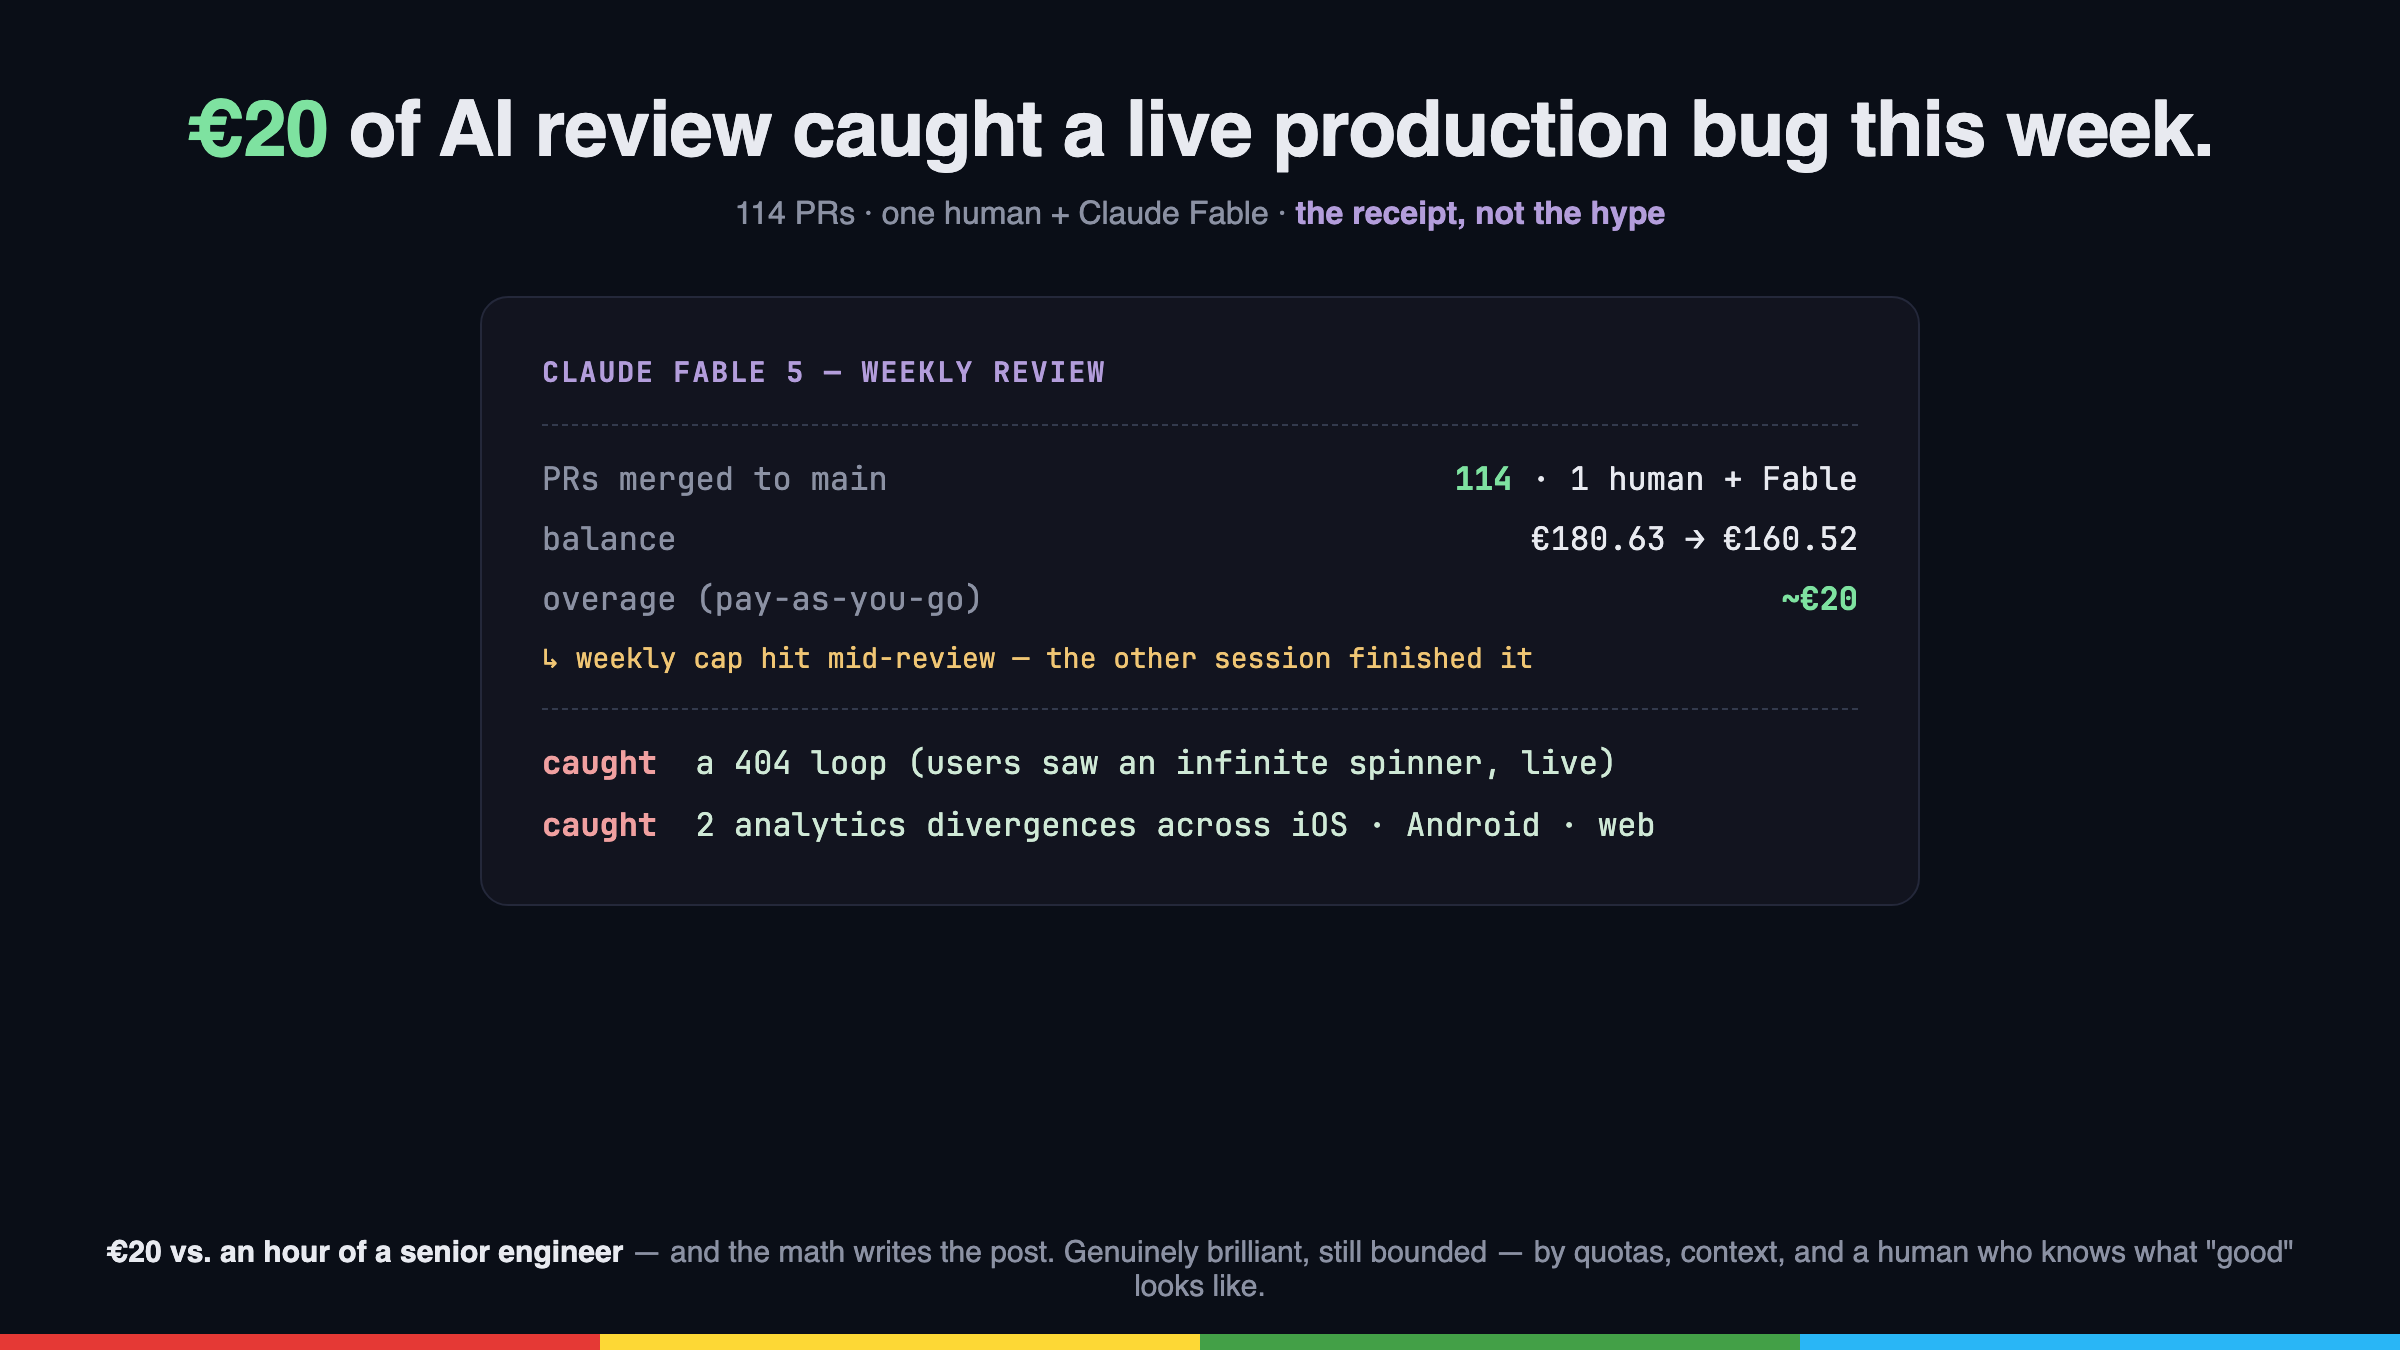
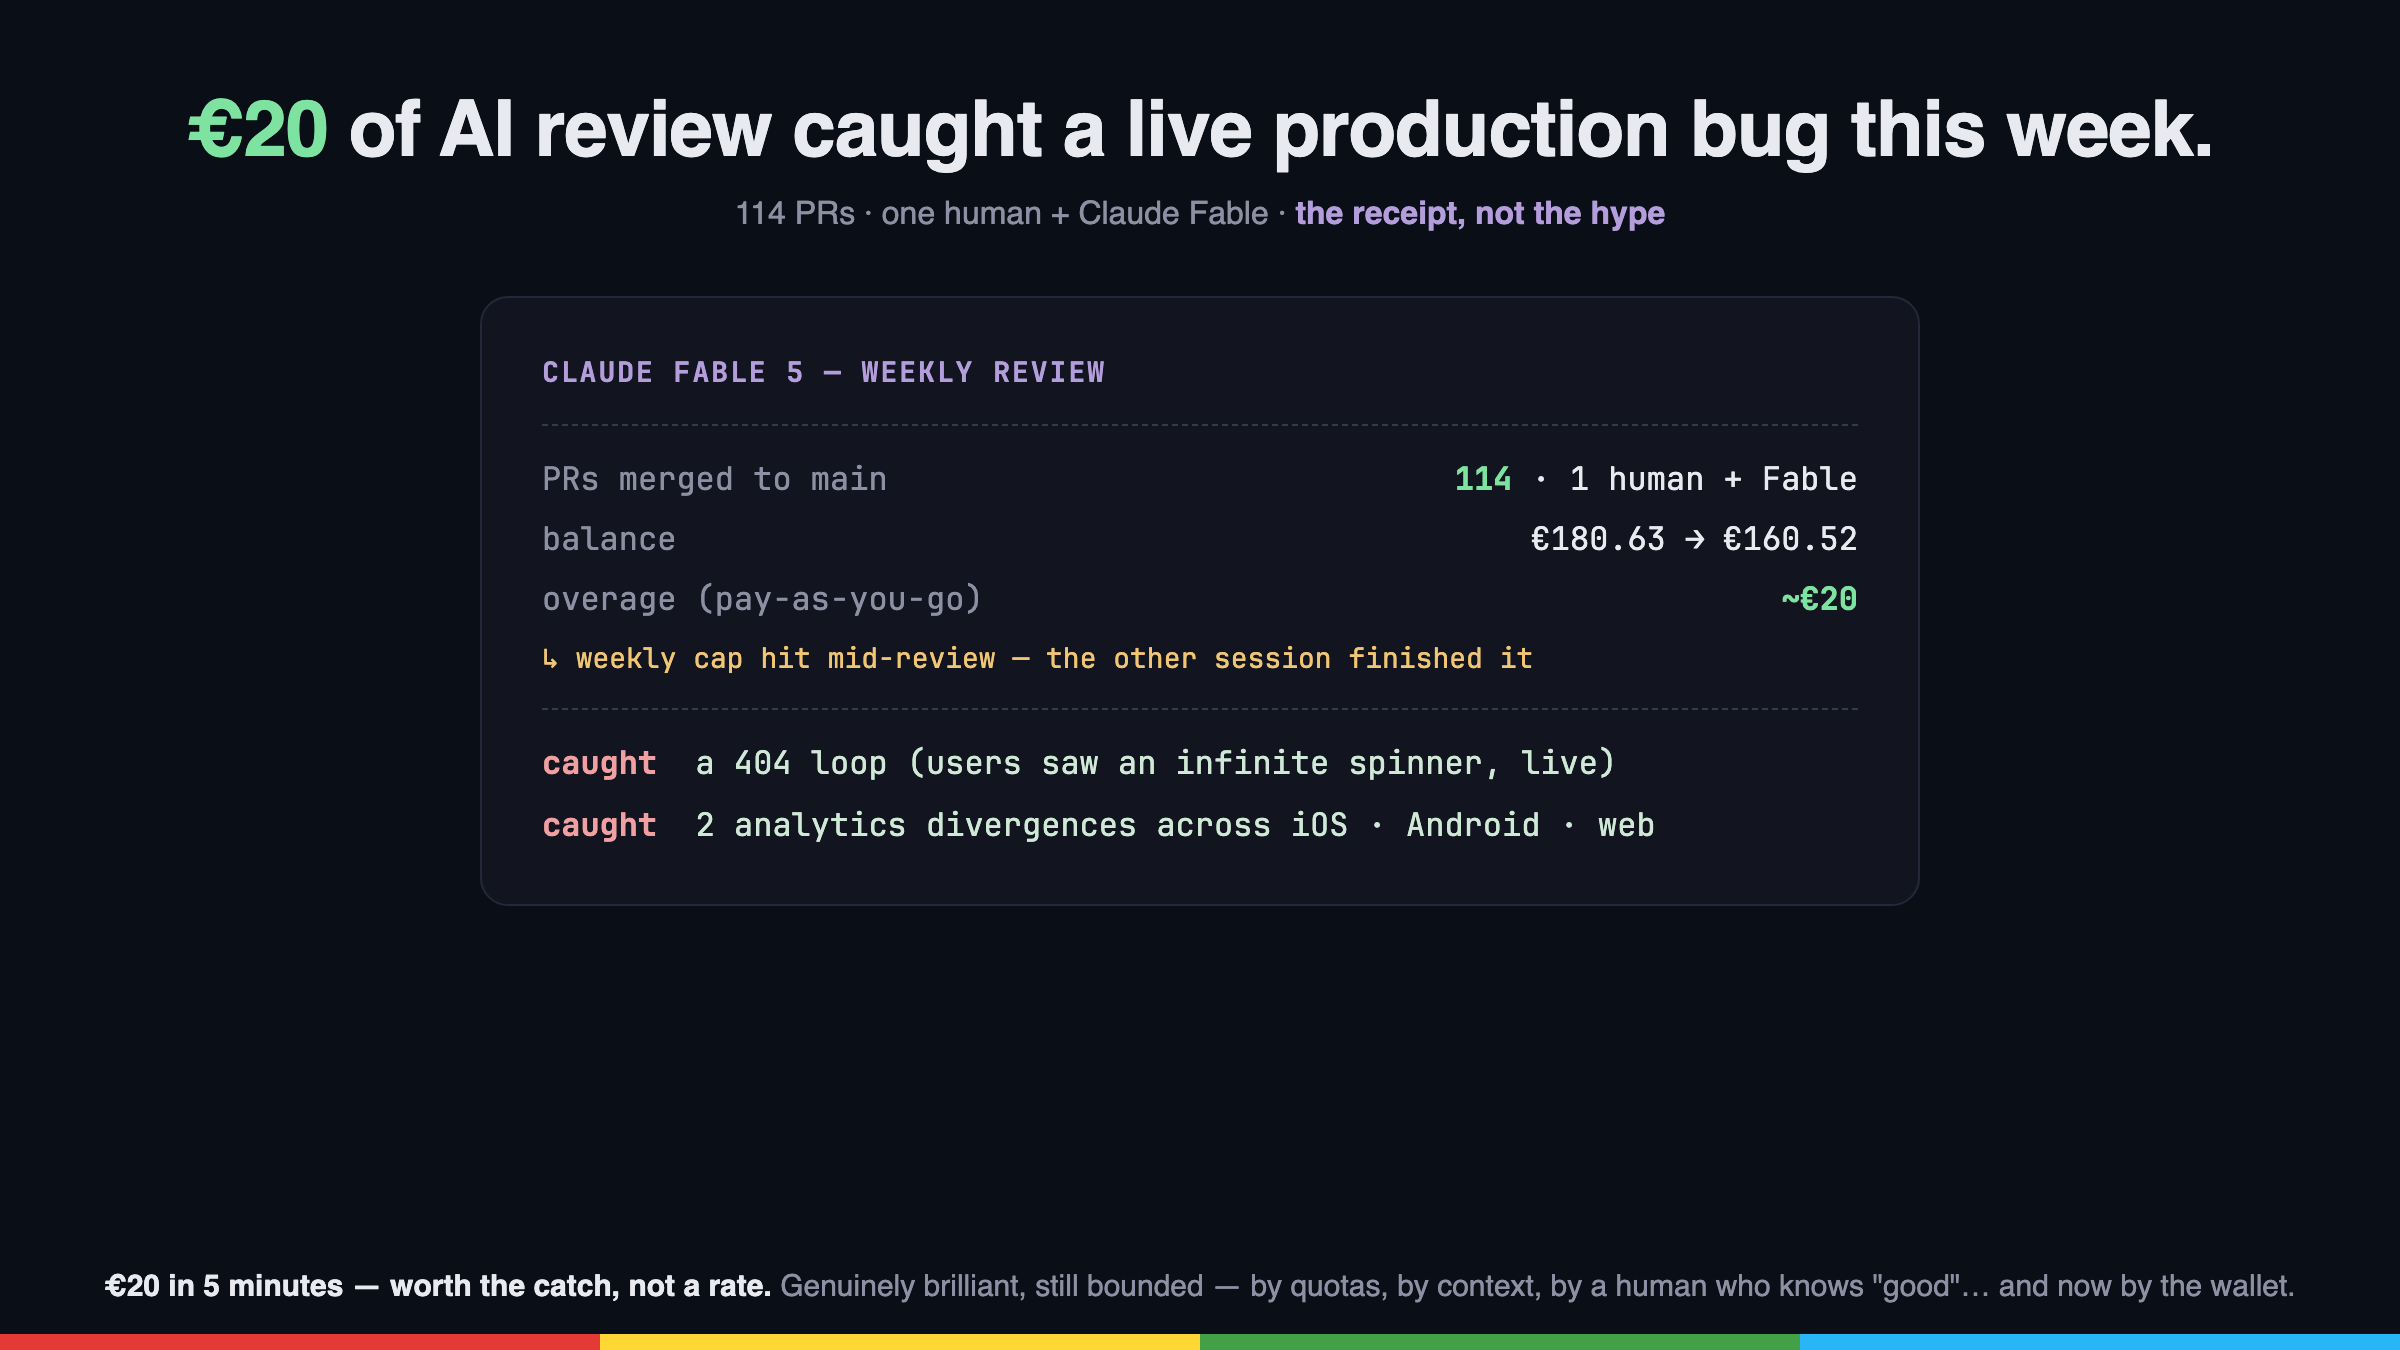
Fable post: cierre honesto — €20/5min es un no-go, vuelta a Opus 4.8 (+ Android)
Reenmarca el final (EN+ES): ese €20 valió por cazar el bug live, pero como tarifa
continua no escala → muevo el grueso a Opus 4.8 en plan plano, Fable para picos.
Cierre con gratitud + primer Android app. Quitada la contradicción "the math
writes the post". Hero re-renderizado con pie neutral.

Changed region(s): [[0.0312, 0.9022, 0.9688, 0.9644]]

diff --git a/wiki/assets/fable-receipt-hero.html b/wiki/assets/fable-receipt-hero.html
@@ -60,7 +60,7 @@
     </div>
   </div>
 
-  <div class="foot"><b>€20 vs. an hour of a senior engineer</b> — and the math writes the post. Genuinely brilliant, still bounded — by quotas, context, and a human who knows what "good" looks like.</div>
+  <div class="foot"><b>€20 in 5 minutes — worth the catch, not a rate.</b> Genuinely brilliant, still bounded — by quotas, by context, by a human who knows "good"… and now by the wallet.</div>
 
   <div class="spectrum">
     <span style="background:#e53935"></span>

diff --git a/wiki/post-side-fable.md b/wiki/post-side-fable.md
@@ -30,11 +30,15 @@ Every stumble became a codified trigger — in memory files, wikis, executable s
 
 **And the honest part** — because this series doesn't do hype: mid-review, one of the two sessions hit its usage ceiling. Frozen, mid-sentence, findings half-delivered. The other session picked up its unfinished review and completed the round. That's the actual state of the art in 2026: genuinely brilliant, and still bounded — by quotas, by context, and by needing a human who knows what "good" looks like. The locale bugs it introduced across three platforms? A human review caught those.
 
-**And the receipt — literally.** This series doesn't do hype, so here's the meter. The flat subscription (Max plan) covered the bulk of those 114 PRs. Mid-review, the weekly Fable allowance hit 100% and one session froze — frozen mid-sentence, findings half-delivered. The overage, billed pay-as-you-go, to finish the cross-platform review and apply the fixes across three codebases: **about €20** (balance €180.63 → €160.52). Twenty euros for a round that caught a real production bug — a 404 loop that would've shown users an infinite spinner — plus two analytics divergences across iOS, Android and web. That's the actual state of the art in 2026: genuinely brilliant, still bounded — by quotas, by context, by needing a human who knows what "good" looks like. The locale bugs it introduced across three platforms? A human review caught those. Now weigh €20 of overage against an hour of a senior engineer's time, and the math writes the post.
+**And the receipt — literally.** This series doesn't do hype, so here's the meter. The flat subscription (Max plan) covered the bulk of those 114 PRs. Mid-review, the weekly Fable allowance hit 100% and one session froze — mid-sentence, findings half-delivered. The overage to finish that cross-platform review and apply the fixes across three codebases, billed pay-as-you-go: **about €20** (balance €180.63 → €160.52). Twenty euros for a round that caught a real production bug — a 404 loop that would've shown users an infinite spinner — plus two analytics divergences across iOS, Android and web.
 
-Fable didn't replace my judgment. It multiplied it by 114.
+**Here's the other half of the receipt:** that was €20 in five minutes. Worth it for catching a live bug? Absolutely. As a *rate*, for how I actually work day to day? A no-go. So I'm moving the bulk back to **Opus 4.8** on the flat plan, and keeping pay-as-you-go Fable for the bursts that earn it.
 
-What would your week look like with a second engineer who never sleeps — and never says yes to be polite?
+Genuinely brilliant, still bounded — by quotas, by context, by needing a human who knows what "good" looks like, and now by my own wallet. The locale bugs it introduced across three platforms? A human review caught those. That's the honest state of the art in 2026.
+
+And the part that isn't on the meter: this week I got **my first Android app ever** under my belt. Thank you, Anthropic. 🙏
+
+What would your week look like with a second engineer who never sleeps — as long as you keep one eye on the meter?
 
 ---
 
@@ -61,11 +65,15 @@ Cada tropiezo quedó codificado como trigger — en memoria, wikis, skills ejecu
 
 **Y la parte honesta** — porque esta serie no hace hype: a mitad de una ronda de review, una de las dos sesiones agotó su cupo de uso. Congelada, a media frase, con los hallazgos a medio entregar. La otra sesión recogió su review inacabada y completó la ronda. Ese es el estado del arte real en 2026: genuinamente brillante, y todavía acotado — por cuotas, por contexto, y por necesitar un humano que sepa qué aspecto tiene "bien hecho". ¿Los bugs de locale que introdujo en tres plataformas? Los cazó una review humana.
 
-**Y el recibo — literal.** Esta serie no hace hype, así que aquí está el contador. La suscripción plana (plan Max) cubrió el grueso de esos 114 PRs. A mitad de una review, la cuota semanal de Fable llegó al 100% y una sesión se congeló — a media frase, con los hallazgos a medio entregar. El excedente, facturado por uso, para terminar la review cross-platform y aplicar los fixes en tres codebases: **unos 20 €** (saldo 180,63 € → 160,52 €). Veinte euros por una ronda que cazó un bug real de producción — un bucle de 404 que habría dejado a los usuarios con un spinner infinito — más dos divergencias de analytics entre iOS, Android y web. Ese es el estado del arte real en 2026: genuinamente brillante, todavía acotado — por cuotas, por contexto, por necesitar un humano que sepa qué aspecto tiene "bien hecho". ¿Los bugs de locale que introdujo en tres plataformas? Los cazó una review humana. Ahora pon esos 20 € de excedente frente a una hora de un ingeniero senior, y las cuentas escriben el post solas.
+**Y el recibo — literal.** Esta serie no hace hype, así que aquí está el contador. La suscripción plana (plan Max) cubrió el grueso de esos 114 PRs. A mitad de una review, la cuota semanal de Fable llegó al 100% y una sesión se congeló — a media frase, con los hallazgos a medio entregar. El excedente para terminar esa review cross-platform y aplicar los fixes en tres codebases, facturado por uso: **unos 20 €** (saldo 180,63 € → 160,52 €). Veinte euros por una ronda que cazó un bug real de producción — un bucle de 404 que habría dejado a los usuarios con un spinner infinito — más dos divergencias de analytics entre iOS, Android y web.
 
-Fable no sustituyó mi criterio. Lo multiplicó por 114.
+**Y la otra mitad del recibo:** fueron 20 € en cinco minutos. ¿Valió la pena por cazar un bug en producción? Sin duda. ¿Como *tarifa*, para cómo trabajo día a día? Un no-go. Así que muevo el grueso de vuelta a **Opus 4.8** en el plan plano, y me guardo el pago-por-uso de Fable para los picos que lo merecen.
 
-¿Cómo sería tu semana con un segundo ingeniero que nunca duerme — y nunca dice que sí por educación?
+Genuinamente brillante, todavía acotado — por cuotas, por contexto, por necesitar un humano que sepa qué aspecto tiene "bien hecho", y ahora por mi propia cartera. ¿Los bugs de locale que introdujo en tres plataformas? Los cazó una review humana. Ese es el estado del arte honesto en 2026.
+
+Y la parte que no está en el contador: esta semana me llevo **mi primera app de Android** de la vida. Gracias, Anthropic. 🙏
+
+¿Cómo sería tu semana con un segundo ingeniero que nunca duerme — mientras no le quites el ojo al contador?
 
 ---
 
